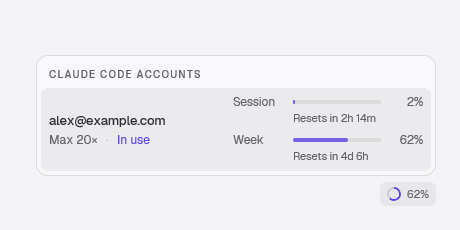
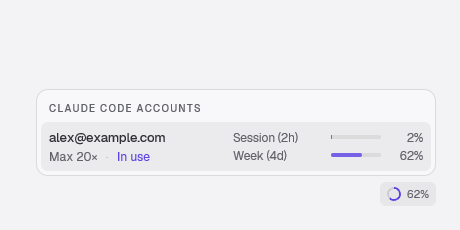
Keep reset countdowns inline in compact account rows

diff --git a/crates/ui/src/account_usage.rs b/crates/ui/src/account_usage.rs
@@ -16,8 +16,8 @@ use zeron_rpc::methods;
 
 use crate::popover;
 use crate::settings::accounts::{
-    self, AccountsSnapshotCache, UsageLevel, render_usage_meter, reports_usage, signs_in,
-    usage_color, usage_level,
+    self, AccountsSnapshotCache, UsageLevel, render_usage_meter_with_label, reports_usage,
+    signs_in, usage_color, usage_level,
 };
 use crate::state::AppState;
 use crate::theme::Theme;
@@ -30,23 +30,22 @@ const POLL_INTERVAL: Duration = Duration::from_secs(5 * 60);
 /// Repaint an open card locally; a ticking countdown needs no provider request.
 const COUNTDOWN_INTERVAL: Duration = Duration::from_secs(30);
 
-/// Round up so a future reset never reads "0m". Expired snapshots must not
+/// Show the largest whole unit, rounding down. Expired snapshots must not
 /// claim the provider has replenished the allowance until a probe confirms it.
 fn reset_countdown(at: DateTime<Utc>, now: DateTime<Utc>) -> String {
-    let millis = at.signed_duration_since(now).num_milliseconds();
+    let remaining = at.signed_duration_since(now);
     if at <= now {
-        return "Reset pending".into();
+        return "pending".into();
     }
-    let minutes = (millis.max(1) + 59_999) / 60_000;
-    let (days, hours, mins) = (minutes / 1440, (minutes / 60) % 24, minutes % 60);
-    let duration = if days > 0 {
-        format!("{days}d {hours}h")
-    } else if hours > 0 {
-        format!("{hours}h {mins}m")
+    if remaining.num_days() > 0 {
+        format!("{}d", remaining.num_days())
+    } else if remaining.num_hours() > 0 {
+        format!("{}h", remaining.num_hours())
+    } else if remaining.num_minutes() > 0 {
+        format!("{}m", remaining.num_minutes())
     } else {
-        format!("{mins}m")
-    };
-    format!("Resets in {duration}")
+        "<1m".into()
+    }
 }
 
 fn banked_resets(count: Option<u32>) -> Option<String> {
@@ -429,6 +428,25 @@ impl AccountUsage {
                 {
                     meta.push(div().child(SharedString::from(reason)).into_any_element());
                 }
+                if let Some(label) = banked_resets(account.available_resets) {
+                    meta.push(
+                        div()
+                            .id(("banked-resets", ix))
+                            .flex()
+                            .items_center()
+                            .gap(px(3.0))
+                            .tooltip(crate::settings::widgets::text_tooltip(format!(
+                                "{label}. Banked usage resets; manage them in your provider's usage settings."
+                            )))
+                            .child(
+                                crate::icons::icon(crate::icons::REFRESH)
+                                    .size(px(12.0))
+                                    .text_color(theme.text_muted),
+                            )
+                            .child(SharedString::from(account.available_resets.unwrap().to_string()))
+                            .into_any_element(),
+                    );
+                }
                 let switch_to = account.clone();
                 popover::menu_row(theme, account.active, format!("account-usage-row-{ix}"))
                     .id(("account-usage-row", ix))
@@ -450,45 +468,29 @@ impl AccountUsage {
                                     .child(email),
                             )
                             .when(!meta.is_empty(), |el| {
-                                el.child(crate::settings::widgets::meta_line(theme, meta))
-                            })
-                            .children(banked_resets(account.available_resets).map(|label| {
-                                div()
-                                    .id(("banked-resets", ix))
-                                    .mt(px(3.0))
-                                    .text_size(crate::typography::ui_rems(11.0))
-                                    .text_color(theme.text_muted)
-                                    .tooltip(crate::settings::widgets::text_tooltip(
-                                        "Banked usage resets. Manage them in your provider's usage settings.",
-                                    ))
-                                    .child(SharedString::from(label))
-                            })),
+                                el.child(crate::settings::widgets::meta_line(theme, meta).flex_nowrap())
+                            }),
                     )
-                    .child(div().flex_none().flex().flex_col().gap(px(5.0)).children(
+                    .child(div().flex_none().flex().flex_col().gap(px(2.0)).children(
                         account.usage_windows.iter().take(2).enumerate().map(
                             |(window_ix, window)| {
+                                let label = window.resets_at.filter(|at| *at > now).map_or_else(
+                                    || window.label.clone(),
+                                    |at| format!("{} ({})", window.label, reset_countdown(at, now)),
+                                );
                                 div()
                                     .id(("account-reset", ix * 2 + window_ix))
                                     .flex()
-                                    .flex_col()
-                                    .child(render_usage_meter(window, theme))
+                                    .child(render_usage_meter_with_label(window, theme, label, 90.0))
                                     .when_some(window.resets_at, |el, at| {
                                         let exact = at
                                             .with_timezone(&Local)
                                             .format("%a, %b %-d at %-I:%M %p %Z");
                                         el.tooltip(crate::settings::widgets::text_tooltip(format!(
-                                            "{} limit resets {exact}",
-                                            window.label
+                                            "{} limit resets {exact}{}",
+                                            window.label,
+                                            if at <= now { " (reset pending)" } else { "" }
                                         )))
-                                        .child(
-                                            div()
-                                                .pl(px(accounts::USAGE_LABEL_WIDTH + 8.0))
-                                                .text_size(crate::typography::ui_rems(10.5))
-                                                .text_color(theme.text_muted)
-                                                .child(SharedString::from(reset_countdown(
-                                                    at, now,
-                                                ))),
-                                        )
                                     })
                             },
                         ),
@@ -630,18 +632,22 @@ mod tests {
         let now: DateTime<Utc> = "2026-10-02T12:00:00Z".parse().unwrap();
         assert_eq!(
             reset_countdown(now + chrono::TimeDelta::nanoseconds(1), now),
-            "Resets in 1m"
+            "<1m"
         );
         for (millis, expected) in [
-            (-1, "Reset pending"),
-            (0, "Reset pending"),
-            (1, "Resets in 1m"),
-            (60_000, "Resets in 1m"),
-            (60_001, "Resets in 2m"),
-            (3_600_000, "Resets in 1h 0m"),
-            (8_040_000, "Resets in 2h 14m"),
-            (288_000_000, "Resets in 3d 8h"),
-            (2_592_000_000, "Resets in 30d 0h"),
+            (-1, "pending"),
+            (0, "pending"),
+            (1, "<1m"),
+            (59_999, "<1m"),
+            (60_000, "1m"),
+            (60_001, "1m"),
+            (3_599_999, "59m"),
+            (3_600_000, "1h"),
+            (8_040_000, "2h"),
+            (86_399_999, "23h"),
+            (86_400_000, "1d"),
+            (288_000_000, "3d"),
+            (2_592_000_000, "30d"),
         ] {
             assert_eq!(
                 reset_countdown(now + chrono::TimeDelta::milliseconds(millis), now),

diff --git a/crates/ui/src/settings/accounts.rs b/crates/ui/src/settings/accounts.rs
@@ -63,7 +63,7 @@ pub fn usage_level(fraction: f32) -> UsageLevel {
 /// Compact account list geometry: every row shares one usage column and one
 /// action slot, so meters and buttons line up down the list however many
 /// accounts there are.
-pub(crate) const USAGE_LABEL_WIDTH: f32 = 52.0;
+const USAGE_LABEL_WIDTH: f32 = 52.0;
 const USAGE_BAR_WIDTH: f32 = 88.0;
 const USAGE_PERCENT_WIDTH: f32 = 34.0;
 const USAGE_COLUMN_WIDTH: f32 = USAGE_LABEL_WIDTH + USAGE_BAR_WIDTH + USAGE_PERCENT_WIDTH + 16.0;
@@ -350,6 +350,16 @@ pub(crate) fn render_usage_meter(
     window: &zeron_proto::AgentUsageWindow,
     theme: &Theme,
 ) -> AnyElement {
+    render_usage_meter_with_label(window, theme, window.label.clone(), USAGE_LABEL_WIDTH)
+}
+
+/// Keep the meter's total width fixed when the composer adds an inline countdown.
+pub(crate) fn render_usage_meter_with_label(
+    window: &zeron_proto::AgentUsageWindow,
+    theme: &Theme,
+    label: String,
+    label_width: f32,
+) -> AnyElement {
     let fraction = window.used_fraction.clamp(0.0, 1.0);
     let level = usage_level(fraction);
     let fill = usage_color(level, theme).opacity(match level {
@@ -365,15 +375,15 @@ pub(crate) fn render_usage_meter(
         .text_size(crate::typography::ui_rems(11.5))
         .child(
             div()
-                .w(px(USAGE_LABEL_WIDTH))
+                .w(px(label_width))
                 .flex_none()
                 .truncate()
                 .text_color(theme.text_muted)
-                .child(SharedString::from(window.label.clone())),
+                .child(SharedString::from(label)),
         )
         .child(
             div()
-                .w(px(USAGE_BAR_WIDTH))
+                .w(px(USAGE_LABEL_WIDTH + USAGE_BAR_WIDTH - label_width))
                 .flex_none()
                 .h(px(4.0))
                 .rounded_full()

diff --git a/docs/screenshots/account-usage/README.md b/docs/screenshots/account-usage/README.md
@@ -20,6 +20,13 @@ countdowns, and missing/expired reset times with a long account identity, in bot
 dark and light themes. Each PNG has a JSON sidecar with physical client dimensions
 and DPI. `result.txt` is written only after all six captures succeed.
 
+Countdowns stay inline (`Week (3d)`, `Session (2h)`) and use the largest whole
+unit rounded down: days, hours, then minutes; less than a minute reads `<1m`.
+The popover keeps its original width and two-line account rows. Banked resets
+appear as a small reset icon and count beside the account metadata, with an
+explanatory tooltip. Exact reset times remain available on each meter's tooltip;
+expired or missing timestamps leave the label plain.
+
 The helper checks the window's process owner and captures its client area;
 screenshots do not include the desktop or unrelated applications.
 The helper keeps the fixture offscreen without activating it and rejects blank
